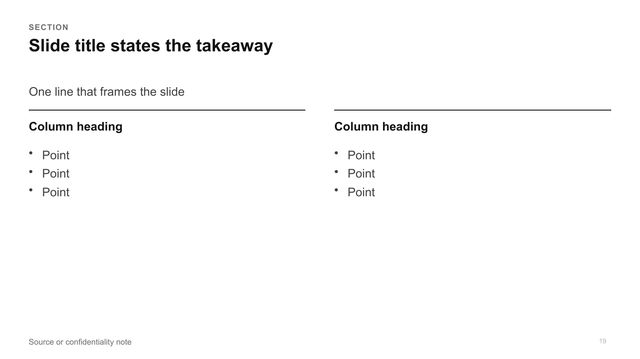
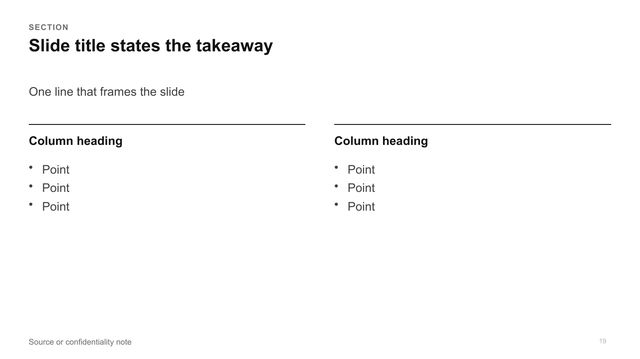
Vertical balance: column layouts start lower, larger text in Before/After and Findings (#45)

Changed region(s): [[0.5, 0.337, 0.6875, 0.5822], [0.0312, 0.337, 0.2188, 0.5822]]

diff --git a/library/layouts/message.js b/library/layouts/message.js
@@ -65,10 +65,10 @@ module.exports = {
         chrome(ctx, { titlePh: "The position, stated as a full sentence", titleW: CW * 0.85 });
         const cc = cols(3);
         cc.forEach((c, i) => {
-          hrule(ctx, c.x, 2.6, c.w, { color: "ink", w: 1.25, follows: `Argument ${i + 1}` });
-          text(ctx, `Number ${i + 1}`, L.num(i + 1), c.x, 2.8, 1, 0.8, "display", { size: 40, follows: `Argument ${i + 1}` });
-          text(ctx, `Argument ${i + 1}`, "Argument in a few words", c.x, 3.75, c.w, 0.75, "h3", { size: 20 });
-          text(ctx, `Argument ${i + 1} detail`, "Evidence or explanation for this argument.", c.x, 4.55, c.w, 1.9, "body", { optional: true, size: 18 });
+          hrule(ctx, c.x, 3.0, c.w, { color: "ink", w: 1.25, follows: `Argument ${i + 1}` });
+          text(ctx, `Number ${i + 1}`, L.num(i + 1), c.x, 3.2, 1, 0.8, "display", { size: 40, follows: `Argument ${i + 1}` });
+          text(ctx, `Argument ${i + 1}`, "Argument in a few words", c.x, 4.15, c.w, 0.75, "h3", { size: 20 });
+          text(ctx, `Argument ${i + 1} detail`, "Evidence or explanation for this argument.", c.x, 4.95, c.w, 1.9, "body", { optional: true, size: 18 });
         });
       },
     },
@@ -108,9 +108,9 @@ module.exports = {
       draw(ctx) {
         chrome(ctx, { lead: true });
         cols(2, MX, CW, 0.6).forEach((c, i) => {
-          hrule(ctx, c.x, 2.3, c.w, { color: "ink", w: 1.25 });
-          text(ctx, `Heading ${i + 1}`, "Column heading", c.x, 2.45, c.w, 0.5, "h3");
-          text(ctx, `Body ${i + 1}`, ["Point", "Point", "Point"], c.x, 3.05, c.w, 3.4, "body", { bullets: true, size: 18 });
+          hrule(ctx, c.x, 2.6, c.w, { color: "ink", w: 1.25 });
+          text(ctx, `Heading ${i + 1}`, "Column heading", c.x, 2.75, c.w, 0.5, "h3");
+          text(ctx, `Body ${i + 1}`, ["Point", "Point", "Point"], c.x, 3.35, c.w, 3.4, "body", { bullets: true, size: 18 });
         });
       },
     },
@@ -122,9 +122,9 @@ module.exports = {
       draw(ctx) {
         chrome(ctx, { lead: true });
         cols(3).forEach((c, i) => {
-          icon(ctx, `Icon ${i + 1}`, c.x, 2.35, 0.6, { optional: true });
-          text(ctx, `Heading ${i + 1}`, "Pillar heading", c.x, 3.2, c.w, 0.5, "h3", { size: 22 });
-          text(ctx, `Body ${i + 1}`, "Two or three sentences that explain this pillar.", c.x, 3.85, c.w, 2.6, "body", { size: 18 });
+          icon(ctx, `Icon ${i + 1}`, c.x, 2.7, 0.6, { optional: true });
+          text(ctx, `Heading ${i + 1}`, "Pillar heading", c.x, 3.55, c.w, 0.5, "h3", { size: 22 });
+          text(ctx, `Body ${i + 1}`, "Two or three sentences that explain this pillar.", c.x, 4.2, c.w, 2.6, "body", { size: 18 });
         });
       },
     },
@@ -136,10 +136,10 @@ module.exports = {
       draw(ctx) {
         chrome(ctx, { lead: true });
         cols(4).forEach((c, i) => {
-          if (i) vrule(ctx, c.x - L.GUT / 2, 2.35, 4.1, { color: "line" });
-          text(ctx, `Number ${i + 1}`, L.num(i + 1, "padded"), c.x, 2.35, c.w, 0.6, "h3", { size: 24, color: "muted", follows: `Heading ${i + 1}` });
-          text(ctx, `Heading ${i + 1}`, "Heading", c.x, 3.05, c.w, 0.75, "h3");
-          text(ctx, `Body ${i + 1}`, "Short text for this column.", c.x, 3.85, c.w, 2.6, "body");
+          if (i) vrule(ctx, c.x - L.GUT / 2, 2.7, 4.1, { color: "line" });
+          text(ctx, `Number ${i + 1}`, L.num(i + 1, "padded"), c.x, 2.7, c.w, 0.6, "h3", { size: 24, color: "muted", follows: `Heading ${i + 1}` });
+          text(ctx, `Heading ${i + 1}`, "Heading", c.x, 3.4, c.w, 0.75, "h3");
+          text(ctx, `Body ${i + 1}`, "Short text for this column.", c.x, 4.2, c.w, 2.6, "body");
         });
       },
     },
@@ -197,9 +197,9 @@ module.exports = {
         for (let i = 0; i < 3; i++) {
           const y = 2.65 + i * 1.35;
           hrule(ctx, MX, y, CW, { color: i ? "line" : "ink", w: i ? 0.75 : 1.25, follows: i ? `Finding ${i + 1}` : undefined });
-          text(ctx, `Finding ${i + 1}`, "What we observed", MX, y + 0.2, 5.3, 1.0, "body", { optional: i > 1 });
+          text(ctx, `Finding ${i + 1}`, "What we observed", MX, y + 0.2, 5.3, 1.0, "body", { optional: i > 1, size: 18 });
           line(ctx, 6.15, y + 0.33, 6.75, y + 0.33, { color: "ink", w: 1.25, end: "triangle", follows: `Implication ${i + 1}` });
-          text(ctx, `Implication ${i + 1}`, "What it means for us", 7.0, y + 0.2, 5.7, 1.0, "body", { bold: true, color: "ink", optional: i > 1 });
+          text(ctx, `Implication ${i + 1}`, "What it means for us", 7.0, y + 0.2, 5.7, 1.0, "body", { bold: true, color: "ink", optional: i > 1, size: 18 });
         }
       },
     },

diff --git a/library/layouts/closing.js b/library/layouts/closing.js
@@ -103,12 +103,12 @@ module.exports = {
       tags: "story narrative four acts storytelling arc situation complication resolution",
       draw(ctx) {
         chrome(ctx);
-        hrule(ctx, MX, 2.75, CW, { color: "line" });
+        hrule(ctx, MX, 3.1, CW, { color: "line" });
         cols(4).forEach((c, i) => {
-          rect(ctx, c.x, 2.55, 0.4, 0.4, { fill: i === 3 ? "ink" : "paper", line: "ink", lw: 1.25, follows: `Act ${i + 1} title` });
-          text(ctx, `Act ${i + 1} label`, `Act ${i + 1}`, c.x + 0.55, 2.6, c.w - 0.55, 0.3, "label", { color: "ink", keep: true, follows: `Act ${i + 1} title` });
-          text(ctx, `Act ${i + 1} title`, "Act title", c.x, 3.2, c.w, 0.85, "h3", { size: 20 });
-          text(ctx, `Act ${i + 1} body`, "What happens in this act.", c.x, 4.2, c.w, 2.3, "body", { size: 18 });
+          rect(ctx, c.x, 2.9, 0.4, 0.4, { fill: i === 3 ? "ink" : "paper", line: "ink", lw: 1.25, follows: `Act ${i + 1} title` });
+          text(ctx, `Act ${i + 1} label`, `Act ${i + 1}`, c.x + 0.55, 2.95, c.w - 0.55, 0.3, "label", { color: "ink", keep: true, follows: `Act ${i + 1} title` });
+          text(ctx, `Act ${i + 1} title`, "Act title", c.x, 3.55, c.w, 0.85, "h3", { size: 20 });
+          text(ctx, `Act ${i + 1} body`, "What happens in this act.", c.x, 4.55, c.w, 2.3, "body", { size: 18 });
         });
       },
     },

diff --git a/library/layouts/data.js b/library/layouts/data.js
@@ -80,11 +80,11 @@ module.exports = {
         chrome(ctx);
         rect(ctx, MX, 2.2, 5.5, 4.55, { fill: "surface", role: "card", for: "Left points" });
         text(ctx, "Left label", "Today", MX + 0.35, 2.5, 4.8, 0.3, "label", { keep: true });
-        text(ctx, "Left points", ["Current situation", "Current situation", "Current situation"], MX + 0.35, 2.95, 4.8, 3.5, "body", { bullets: true });
+        text(ctx, "Left points", ["Current situation", "Current situation", "Current situation"], MX + 0.35, 2.95, 4.8, 3.5, "body", { bullets: true, size: 20 });
         line(ctx, 6.35, 4.45, 7.0, 4.45, { color: "ink", w: 2, end: "triangle" });
         rect(ctx, 7.233, 2.2, 5.5, 4.55, { fill: "a1", role: "card", for: "Right points" });
         text(ctx, "Right label", "Tomorrow", 7.583, 2.5, 4.8, 0.3, "label", { color: "a4", keep: true });
-        text(ctx, "Right points", ["Target situation", "Target situation", "Target situation"], 7.583, 2.95, 4.8, 3.5, "body", { bullets: true, color: "paper" });
+        text(ctx, "Right points", ["Target situation", "Target situation", "Target situation"], 7.583, 2.95, 4.8, 3.5, "body", { bullets: true, color: "paper", size: 20 });
       },
     },
   ],

diff --git a/CHANGELOG.md b/CHANGELOG.md
@@ -8,6 +8,9 @@ All notable changes to this project are documented here. Format based on [Keep a
 - **Larger text.** Type scale: body 14 to 16 pt, small 12 to 14, lead 16 to 18, subheadings 16 to 18, labels and captions 10 to 12, table text 11 to 14. Roomy layouts go further (Two columns, Three columns with icons, Position and three arguments, Story in four acts: 18 to 22 pt). Character limits follow the geometry, so some fields hold fewer characters (about 12 % fewer on median in layouts); explicit limits can no longer exceed what the box holds at its font size. `lint_deck.py` and the review checklist now flag text under 12 pt (was 10 pt).
 - **A clean folder at the end.** The workflow keeps the spec, renders, reports and downloaded images in a scratch folder (`scripts/workdir.py`, removed at the end, never anything it did not create) and writes only the deliverables to the user's folder.
 
+### Changed (layouts)
+- Column layouts (Two columns, Three columns with icons, Four columns, Position and three arguments, Story in four acts) start lower on the slide and Before and after, Findings and implications use 18 to 20 pt text, so the content fills the slide instead of hugging the title.
+
 ### Added
 - **Empty-bottom check in `lint_deck.py`**: a warning when the content of a slide (three or more blocks) ends above 68 % of the slide height.
 - **Private Python environment on "externally managed" systems** (PEP 668: recent Ubuntu, Debian, Fedora, Homebrew). When pip refuses to install, `doctor.py --fix` builds a private environment in a per-user folder (`~/.cache/make-clean-pptx/venv`, or `%LOCALAPPDATA%` on Windows) and the scripts switch to it by themselves (`scripts/_env.py`). The system Python is never modified. If even that fails, the message carries one working command.
